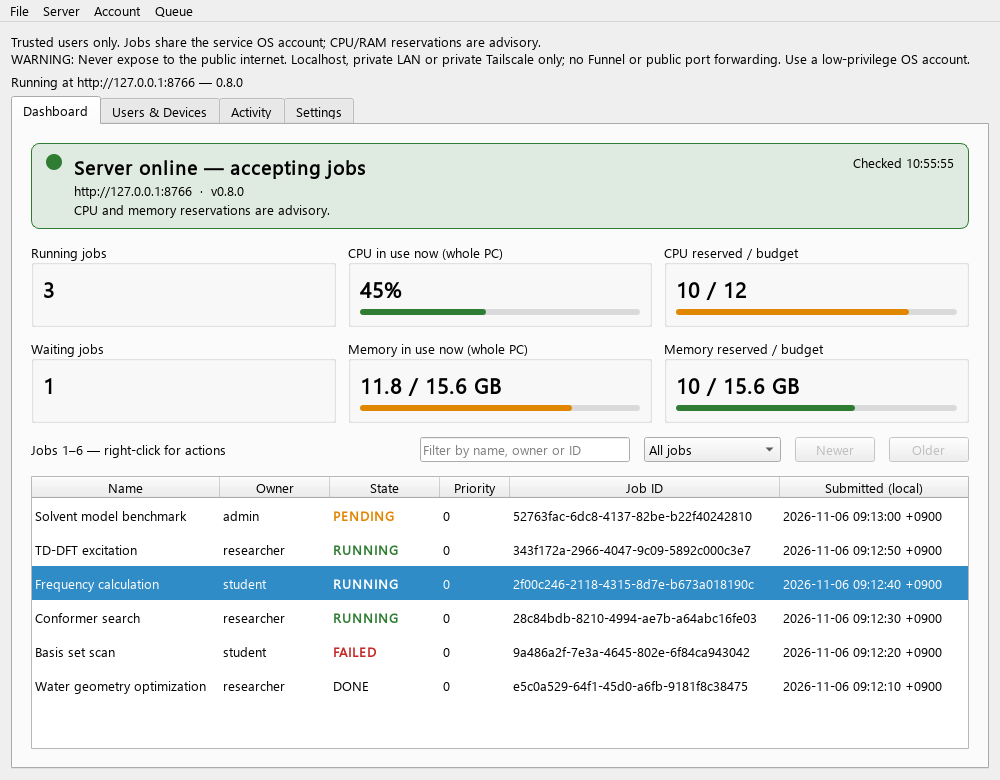
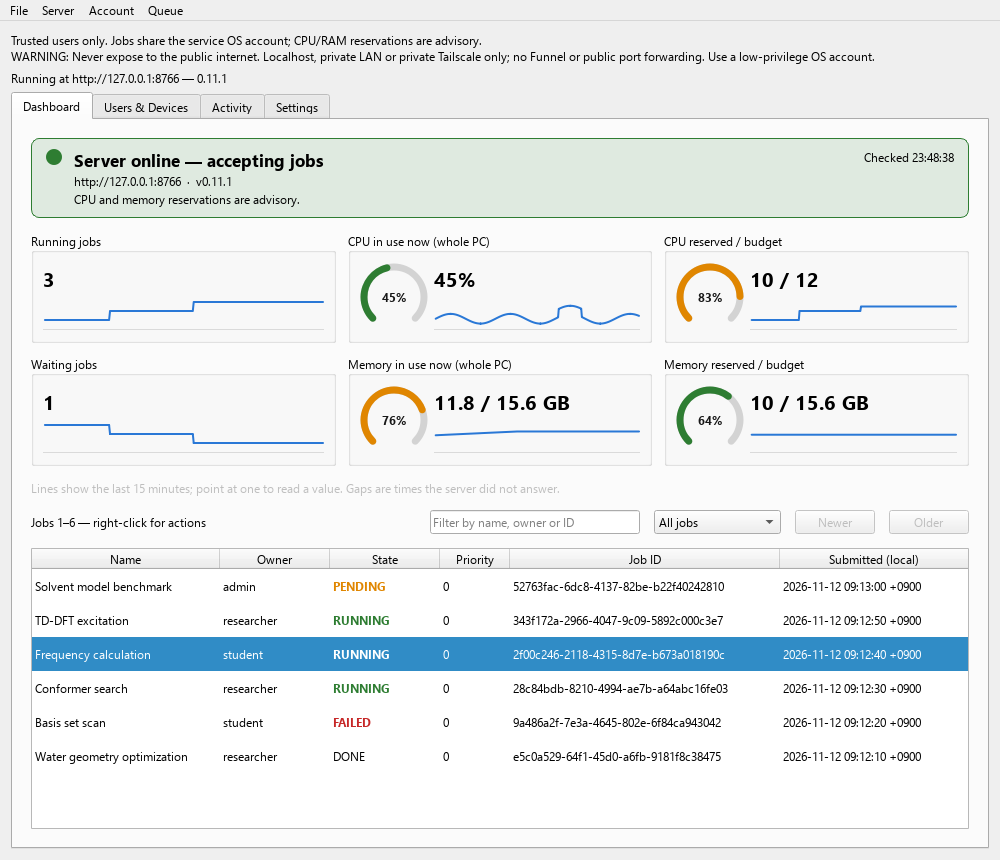
Show dials and 15-minute trend lines on the dashboard
The figure cards only said what the server was doing at the moment of
the last refresh, so a burst of CPU between two glances went unseen.
Each share of capacity now has a dial, and every card draws its last
15 minutes underneath, with the value under the pointer and a gap
while the server did not answer. README and its dashboard screenshot
describe this round of changes.

diff --git a/job_server/ui/meters.py b/job_server/ui/meters.py
@@ -1,0 +1,170 @@
+"""A dial for a share of capacity, and a trend line of the last few minutes."""
+
+import time
+from collections import deque
+
+from PySide6.QtCore import QPointF, QRectF, QSize, Qt
+from PySide6.QtGui import QColor, QFont, QPainter, QPainterPath, QPen
+from PySide6.QtWidgets import QSizePolicy, QToolTip, QWidget
+
+HISTORY_SECONDS = 15 * 60
+TREND_LIGHT, TREND_DARK = "#2a78d6", "#3987e5"
+
+
+def _dark(widget):
+    return widget.palette().window().color().lightness() < 128
+
+
+def _ink(widget, alpha):
+    color = QColor(widget.palette().windowText().color())
+    color.setAlphaF(alpha)
+    return color
+
+
+class Gauge(QWidget):
+    """A 270° dial with the percentage in its middle; keeps QProgressBar's value()."""
+
+    def __init__(self, parent=None):
+        super().__init__(parent)
+        self._value = 0
+        self._known = False
+        self._color = QColor("#2e7d32")
+        self.setFixedSize(QSize(68, 68))
+
+    def setValue(self, value):
+        self._value = max(0, min(100, int(value)))
+        self.update()
+
+    def value(self):
+        return self._value
+
+    def setKnown(self, known):
+        self._known = bool(known)
+        self.update()
+
+    def setColor(self, color):
+        self._color = QColor(color)
+        self.update()
+
+    def paintEvent(self, _event):
+        painter = QPainter(self)
+        painter.setRenderHint(QPainter.RenderHint.Antialiasing)
+        side = min(self.width(), self.height()) - 8
+        rect = QRectF((self.width() - side) / 2, (self.height() - side) / 2, side, side)
+        # Qt angles are in 1/16 degree, counter-clockwise from 3 o'clock: start at
+        # 7:30 and sweep clockwise through 270 degrees.
+        start, span = 225 * 16, -270 * 16
+        track = QPen(_ink(self, 0.15), 7, Qt.PenStyle.SolidLine, Qt.PenCapStyle.RoundCap)
+        painter.setPen(track)
+        painter.drawArc(rect, start, span)
+        if self._known and self._value > 0:
+            painter.setPen(QPen(self._color, 7, Qt.PenStyle.SolidLine, Qt.PenCapStyle.RoundCap))
+            painter.drawArc(rect, start, int(span * self._value / 100))
+        font = QFont(self.font())
+        font.setBold(True)
+        font.setPointSizeF(max(7.0, font.pointSizeF()))
+        painter.setFont(font)
+        painter.setPen(_ink(self, 0.9 if self._known else 0.45))
+        painter.drawText(rect, Qt.AlignmentFlag.AlignCenter, f"{self._value}%" if self._known else "—")
+
+
+class Trend(QWidget):
+    """The last fifteen minutes of one measure, with its value under the pointer."""
+
+    def __init__(self, unit="", maximum=None, parent=None):
+        super().__init__(parent)
+        self.unit = unit
+        self.maximum = maximum
+        self.samples = deque()
+        self._hover = None
+        self.setMouseTracking(True)
+        self.setMinimumHeight(30)
+        self.setMaximumHeight(34)
+        self.setSizePolicy(QSizePolicy.Policy.Expanding, QSizePolicy.Policy.Fixed)
+
+    def add(self, value, when=None):
+        """Record a sample; None marks a gap, such as the server being off."""
+        when = time.time() if when is None else when
+        self.samples.append((when, None if value is None else float(value)))
+        while self.samples and self.samples[0][0] < when - HISTORY_SECONDS:
+            self.samples.popleft()
+        self.update()
+
+    def _scale(self):
+        values = [value for _, value in self.samples if value is not None]
+        top = self.maximum if self.maximum is not None else max(values + [1.0])
+        return top or 1.0
+
+    def _points(self):
+        if not self.samples:
+            return []
+        now = self.samples[-1][0]
+        top = self._scale()
+        width, height = self.width() - 2, self.height() - 4
+        return [
+            (when, value, None if value is None else QPointF(
+                1 + width * (1 - (now - when) / HISTORY_SECONDS),
+                2 + height * (1 - min(value, top) / top),
+            ))
+            for when, value in self.samples
+        ]
+
+    def paintEvent(self, _event):
+        painter = QPainter(self)
+        painter.setRenderHint(QPainter.RenderHint.Antialiasing)
+        painter.setPen(QPen(_ink(self, 0.12), 1))
+        painter.drawLine(QPointF(0, self.height() - 1.5), QPointF(self.width(), self.height() - 1.5))
+        color = QColor(TREND_DARK if _dark(self) else TREND_LIGHT)
+        path, started = QPainterPath(), False
+        for _when, _value, point in self._points():
+            if point is None:
+                started = False
+            elif started:
+                path.lineTo(point)
+            else:
+                path.moveTo(point)
+                started = True
+        painter.setPen(QPen(color, 2, Qt.PenStyle.SolidLine, Qt.PenCapStyle.RoundCap,
+                            Qt.PenJoinStyle.RoundJoin))
+        painter.drawPath(path)
+        if self._hover is not None:
+            _when, _value, point = self._hover
+            painter.setPen(QPen(_ink(self, 0.35), 1))
+            painter.drawLine(QPointF(point.x(), 0), QPointF(point.x(), self.height()))
+            painter.setPen(QPen(self.palette().window().color(), 2))
+            painter.setBrush(color)
+            painter.drawEllipse(point, 4, 4)
+
+    def describe(self, when, value):
+        stamp = time.strftime("%H:%M:%S", time.localtime(when))
+        amount = f"{value:.0f}" if self.unit == "%" or value == int(value) else f"{value:.1f}"
+        return f"{stamp} — {amount}{self.unit}"
+
+    def mouseMoveEvent(self, event):
+        x = event.position().x()
+        nearest = min(
+            ((when, value, point) for when, value, point in self._points() if point is not None),
+            key=lambda sample: abs(sample[2].x() - x), default=None,
+        )
+        # Only a sample close to the pointer is described: across a gap there is nothing to read.
+        if nearest is None or abs(nearest[2].x() - x) > 12:
+            self._hover = None
+            QToolTip.hideText()
+        else:
+            self._hover = nearest
+            QToolTip.showText(event.globalPosition().toPoint(), self.describe(nearest[0], nearest[1]), self)
+        self.update()
+
+    def leaveEvent(self, event):
+        self._hover = None
+        QToolTip.hideText()
+        self.update()
+        super().leaveEvent(event)
+
+
+def percent(used, budget):
+    try:
+        return max(0.0, min(100.0, 100.0 * used / budget))
+    except (TypeError, ZeroDivisionError):
+        return None
+

diff --git a/job_server/ui/dashboard.py b/job_server/ui/dashboard.py
@@ -1,5 +1,6 @@
 
 from ._qt_callbacks import connect_queued
+from .meters import Gauge, Trend, percent
 import json
 import os
 import sqlite3
@@ -35,7 +36,6 @@ from PySide6.QtWidgets import (
     QInputDialog,
     QMessageBox,
     QMenuBar,
-    QProgressBar,
     QPushButton,
     QScrollArea,
     QSizePolicy,
@@ -239,6 +239,7 @@ class Dashboard(QDialog):
         metrics.setSpacing(12)
         self.metric_values = {}
         self.metric_bars = {}
+        self.metric_trends = {}
         for index, (key, title) in enumerate((
             ("running", "Running jobs"), ("cpu_usage", "CPU in use now (whole PC)"),
             ("cpu", "CPU reserved / budget"), ("pending", "Waiting jobs"),
@@ -246,30 +247,33 @@ class Dashboard(QDialog):
         )):
             card = QGroupBox(title)
             card.setSizePolicy(QSizePolicy.Policy.Preferred, QSizePolicy.Policy.Fixed)
-            content = QVBoxLayout(card)
+            content = QHBoxLayout(card)
+            column = QVBoxLayout()
             value = QLabel("—")
             font = value.font()
             font.setPointSize(font.pointSize() + 6)
             font.setBold(True)
             value.setFont(font)
-            content.addWidget(value)
+            column.addWidget(value)
             self.metric_values[key] = value
-            bar = QProgressBar()
-            bar.setTextVisible(False)
-            bar.setFixedHeight(6)
-            bar.setRange(0, 100)
-            content.addWidget(bar)
-            if key in ("cpu", "memory", "cpu_usage", "memory_usage"):
-                self.metric_bars[key] = bar
+            share = key in ("cpu", "memory", "cpu_usage", "memory_usage")
+            # The last fifteen minutes under each figure, so a spike between glances still shows.
+            trend = Trend("%" if share else "", 100 if share else None)
+            column.addWidget(trend)
+            self.metric_trends[key] = trend
+            if share:
+                gauge = Gauge()
+                content.addWidget(gauge)
+                self.metric_bars[key] = gauge
                 self._set_usage(key, None, None)
             else:
-                # Count cards keep the bar's space so all four cards line up.
-                policy = bar.sizePolicy()
-                policy.setRetainSizeWhenHidden(True)
-                bar.setSizePolicy(policy)
-                bar.hide()
+                content.addStrut(Gauge().height())  # Count cards line up with dial cards.
+            content.addLayout(column, 1)
             metrics.addWidget(card, index // 3, index % 3)
         layout.addLayout(metrics)
+        note = QLabel("Lines show the last 15 minutes; point at one to read a value. Gaps are times the server did not answer.")
+        note.setEnabled(False)
+        layout.addWidget(note)
         filters = QHBoxLayout()
         self.job_caption = QLabel("Jobs — right-click for actions")
         filters.addWidget(self.job_caption, 1)
@@ -872,6 +876,13 @@ class Dashboard(QDialog):
             )
             self._set_usage("cpu_usage", cpu_now, 100)
             self._set_usage("memory_usage", memory_now, 100)
+            for key, sample in (
+                ("running", resource.get("running")), ("pending", resource.get("pending")),
+                ("cpu_usage", cpu_now), ("memory_usage", memory_now),
+                ("cpu", percent(resource.get("reserved_cpus"), resource.get("cpus"))),
+                ("memory", percent(resource.get("reserved_memory_mb"), resource.get("memory_mb"))),
+            ):
+                self.metric_trends[key].add(sample)
             usernames = {u["id"]: u["username"] for u in data["users"]}
             self.usernames = usernames
             self.job_records = {job["id"]: job for job in data["jobs"]}
@@ -955,6 +966,8 @@ class Dashboard(QDialog):
             value.setText("—")
         for key in self.metric_bars:
             self._set_usage(key, None, None)
+        for trend in self.metric_trends.values():
+            trend.add(None)  # A gap in the line, not a fall to zero.
         for table in (self.jobs, self.users, self.devices, self.activity):
             self.fill(table, [])
         self._update_job_actions()
@@ -963,17 +976,13 @@ class Dashboard(QDialog):
             self.detail_dialog.invalidate("Connection unavailable. Sign in and refresh to view this job.")
 
     def _set_usage(self, key, used, budget):
-        try:
-            percent = max(0, min(100, round(100 * used / budget)))
-        except (TypeError, ZeroDivisionError):
-            percent = 0
-        color = "#c62828" if percent >= 90 else "#e08600" if percent >= 70 else "#2e7d32"
-        bar = self.metric_bars[key]
-        bar.setValue(percent)
-        bar.setStyleSheet(
-            "QProgressBar { border: none; border-radius: 3px; background: rgba(127, 127, 127, 0.25); }"
-            f"QProgressBar::chunk {{ border-radius: 3px; background: {color}; }}"
-        )
+        share = percent(used, budget)
+        value = 0 if share is None else round(share)
+        color = "#c62828" if value >= 90 else "#e08600" if value >= 70 else "#2e7d32"
+        gauge = self.metric_bars[key]
+        gauge.setValue(value)
+        gauge.setKnown(share is not None)
+        gauge.setColor(color)
 
     def _color_states(self):
         for row in range(self.jobs.rowCount()):

diff --git a/tests/test_meters.py b/tests/test_meters.py
@@ -1,0 +1,69 @@
+"""The dashboard's dials and trend lines."""
+
+import pytest
+
+
+@pytest.fixture
+def qt():
+    pytest.importorskip("PySide6")
+    from PySide6.QtWidgets import QApplication
+
+    return QApplication.instance() or QApplication([])
+
+
+def test_a_trend_keeps_fifteen_minutes_and_marks_gaps(qt):
+    from job_server.ui.meters import HISTORY_SECONDS, Trend
+
+    trend = Trend("%", 100)
+    trend.resize(200, 30)
+    for step in range(400):
+        trend.add(None if step == 399 else step % 100, when=step * 3.0)
+    assert trend.samples[0][0] >= 399 * 3.0 - HISTORY_SECONDS
+    assert trend.samples[-1][1] is None
+    points = trend._points()
+    assert points[-1][2] is None, "A gap draws no point"
+    assert all(0 <= point.y() <= 30 for _, _, point in points if point is not None)
+    assert trend.describe(0, 37.4).endswith("37%")
+
+
+def test_a_count_trend_scales_to_its_largest_value(qt):
+    from job_server.ui.meters import Trend
+
+    trend = Trend()
+    trend.resize(100, 30)
+    trend.add(0, when=1.0)
+    trend.add(4, when=2.0)
+    low, high = (point for _, _, point in trend._points())
+    assert high.y() < low.y()
+    assert trend._scale() == 4
+    assert trend.describe(0, 4.0).endswith("— 4")
+
+
+def test_a_gauge_shows_unknown_until_it_has_a_value(qt):
+    from job_server.ui.meters import Gauge
+
+    gauge = Gauge()
+    assert not gauge._known
+    gauge.setValue(150)
+    gauge.setKnown(True)
+    assert gauge.value() == 100
+    gauge.grab()  # Paints without error.
+
+
+def test_the_dashboard_records_history_and_a_gap_when_offline(tmp_path, qt, monkeypatch):
+    from job_server.settings import Settings
+    from job_server.ui.dashboard import Dashboard
+
+    config = tmp_path / "settings.json"
+    Settings(data_dir=str(tmp_path)).save(config)
+    board = Dashboard(config=config)
+    board.timer.stop()
+    try:
+        board._set_usage("cpu", 6, 8)
+        assert board.metric_bars["cpu"].value() == 75 and board.metric_bars["cpu"]._known
+        board._set_usage("cpu", None, None)
+        assert not board.metric_bars["cpu"]._known
+        board._clear_dashboard()
+        assert all(trend.samples[-1][1] is None for trend in board.metric_trends.values())
+    finally:
+        board.close()

diff --git a/README.md b/README.md
@@ -24,7 +24,8 @@ Python, and an administrator runs the server from MoleditPy or the command line.
 ## What it does
 
 - **Queue:** CPU and memory budgets, priorities, dependencies, pause and force run. The
-  dashboard shows what is reserved beside what the whole PC is using right now.
+  dashboard shows what is reserved beside what the whole PC is using right now, as dials
+  with the last 15 minutes drawn under each figure.
 - **Durable jobs:** jobs run in detached supervisors and a SQLite ledger tracks them, so
   closing MoleditPy or restarting the daemon does not stop a calculation.
 - **Accounts:** users and administrators, device keys, password changes and resets,
@@ -59,12 +60,14 @@ Right-click a job, user or device for its actions. The same actions are in the m
 
 | Tab | Use it to |
 |---|---|
-| **Dashboard** | See server state, live CPU and memory, reservations and jobs. Filter jobs, open details, set priority, force run, cancel or open the job folder. |
+| **Dashboard** | See server state, live CPU and memory, reservations and jobs. Each figure has a dial and a 15-minute trend line; point at a line to read its value. Filter jobs, open details, set priority, force run, cancel or open the job folder. The lists refresh every few seconds without moving your selection or scroll position. |
 | **Users & Devices** | Add users or administrators, reset passwords, enable, disable or delete users, switch user and administrator, and revoke devices. Change your own password. |
 | **Activity** | Read recent logins, account changes and job events. |
 | **Settings** | Set the network, budgets, commands run before each job, the job folder and the runtime. When a save changes something while the server runs, the window offers the restart that applies it. |
 
-Double-click a job to see its command, latest output and result files.
+Double-click a job to see its command, latest output and result files. The window follows
+an unfinished job every 5 seconds until it ends, and keeps the output where you scrolled it
+unless you are reading its end.
 
 ![Job details with synthetic output](docs/gui-job-details.png)
 
@@ -76,6 +79,11 @@ password and revoke their own devices. **Shared queue** shows every user's runni
 waiting jobs by name and owner, in the order they start, and each waiting job says how
 many jobs are ahead of it. Commands, files and output stay private to each job's owner. Administrators also get queue controls and
 **Users & devices**.
+
+Click a job row to open it, and narrow the list by text or by state (unfinished, finished,
+failed or stopped). Each page has its own address, so the browser's Back and Forward move
+between pages, a reload stays where you were, and a job's address (`#job/<id>`) can be
+bookmarked. Lists refresh in the background without flickering.
 
 ![Web user administration](docs/web-accounts.png)
 
